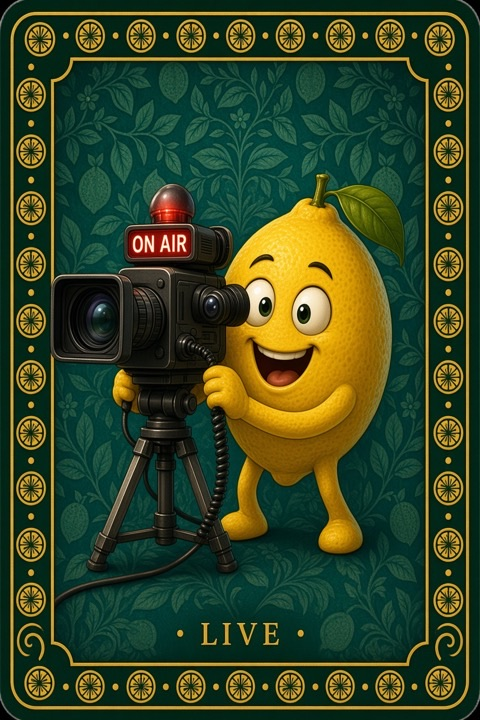
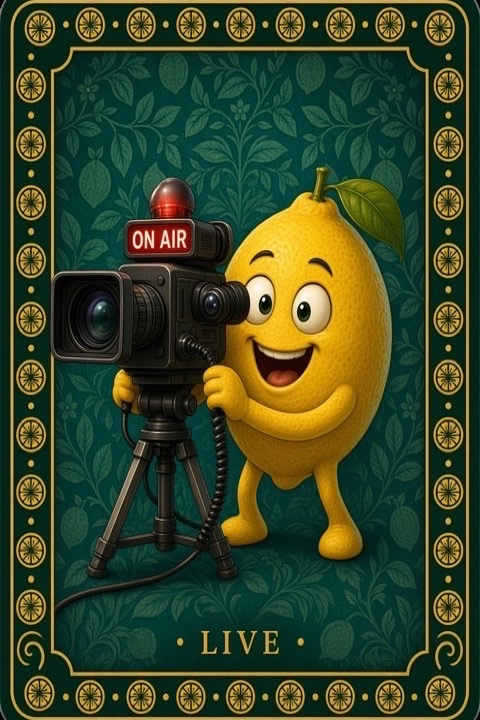
Crop letterboxed card backs and zoom image skins so they fill the card.

diff --git a/canvases/card-game.canvas.tsx b/canvases/card-game.canvas.tsx
@@ -1061,43 +1061,21 @@ function useCardBack(): CardBackId {
 function isCardBack(id: unknown): id is CardBackId {
   return id === "classic" || id === "shades" || id === "sweaty" || id === "camera" || id === "dealer";
 }
+/** Image backs are 2:3; in-game cards are a bit wider (~56×78). Zoom past 100% so art bleeds past the card edge. */
+function imageCardBackFill(src: string, fallback: string): CSSProperties {
+  return {
+    backgroundColor: fallback,
+    backgroundImage: `url(${src})`,
+    backgroundSize: "112% 112%",
+    backgroundPosition: "center",
+    backgroundRepeat: "no-repeat",
+  };
+}
 function cardBackFill(id: CardBackId): CSSProperties {
-  if (id === "shades") {
-    return {
-      backgroundColor: "#145230",
-      backgroundImage: `url(${SHADES_BACK_SRC})`,
-      backgroundSize: "cover",
-      backgroundPosition: "center",
-      backgroundRepeat: "no-repeat",
-    };
-  }
-  if (id === "sweaty") {
-    return {
-      backgroundColor: "#0f3d38",
-      backgroundImage: `url(${SWEATY_BACK_SRC})`,
-      backgroundSize: "cover",
-      backgroundPosition: "center",
-      backgroundRepeat: "no-repeat",
-    };
-  }
-  if (id === "camera") {
-    return {
-      backgroundColor: "#0d2f2a",
-      backgroundImage: `url(${CAMERA_BACK_SRC})`,
-      backgroundSize: "cover",
-      backgroundPosition: "center",
-      backgroundRepeat: "no-repeat",
-    };
-  }
-  if (id === "dealer") {
-    return {
-      backgroundColor: "#12352f",
-      backgroundImage: `url(${DEALER_BACK_SRC})`,
-      backgroundSize: "cover",
-      backgroundPosition: "center",
-      backgroundRepeat: "no-repeat",
-    };
-  }
+  if (id === "shades") return imageCardBackFill(SHADES_BACK_SRC, "#145230");
+  if (id === "sweaty") return imageCardBackFill(SWEATY_BACK_SRC, "#0f3d38");
+  if (id === "camera") return imageCardBackFill(CAMERA_BACK_SRC, "#0d2f2a");
+  if (id === "dealer") return imageCardBackFill(DEALER_BACK_SRC, "#12352f");
   return {
     background: CARD_BACK_BG,
     backgroundImage: CARD_BACK_PATTERN,

diff --git a/docs/index.html b/docs/index.html
@@ -1166,43 +1166,21 @@ function useCardBack(): CardBackId {
 function isCardBack(id: unknown): id is CardBackId {
   return id === "classic" || id === "shades" || id === "sweaty" || id === "camera" || id === "dealer";
 }
+/** Image backs are 2:3; in-game cards are a bit wider (~56×78). Zoom past 100% so art bleeds past the card edge. */
+function imageCardBackFill(src: string, fallback: string): CSSProperties {
+  return {
+    backgroundColor: fallback,
+    backgroundImage: `url(${src})`,
+    backgroundSize: "112% 112%",
+    backgroundPosition: "center",
+    backgroundRepeat: "no-repeat",
+  };
+}
 function cardBackFill(id: CardBackId): CSSProperties {
-  if (id === "shades") {
-    return {
-      backgroundColor: "#145230",
-      backgroundImage: `url(${SHADES_BACK_SRC})`,
-      backgroundSize: "cover",
-      backgroundPosition: "center",
-      backgroundRepeat: "no-repeat",
-    };
-  }
-  if (id === "sweaty") {
-    return {
-      backgroundColor: "#0f3d38",
-      backgroundImage: `url(${SWEATY_BACK_SRC})`,
-      backgroundSize: "cover",
-      backgroundPosition: "center",
-      backgroundRepeat: "no-repeat",
-    };
-  }
-  if (id === "camera") {
-    return {
-      backgroundColor: "#0d2f2a",
-      backgroundImage: `url(${CAMERA_BACK_SRC})`,
-      backgroundSize: "cover",
-      backgroundPosition: "center",
-      backgroundRepeat: "no-repeat",
-    };
-  }
-  if (id === "dealer") {
-    return {
-      backgroundColor: "#12352f",
-      backgroundImage: `url(${DEALER_BACK_SRC})`,
-      backgroundSize: "cover",
-      backgroundPosition: "center",
-      backgroundRepeat: "no-repeat",
-    };
-  }
+  if (id === "shades") return imageCardBackFill(SHADES_BACK_SRC, "#145230");
+  if (id === "sweaty") return imageCardBackFill(SWEATY_BACK_SRC, "#0f3d38");
+  if (id === "camera") return imageCardBackFill(CAMERA_BACK_SRC, "#0d2f2a");
+  if (id === "dealer") return imageCardBackFill(DEALER_BACK_SRC, "#12352f");
   return {
     background: CARD_BACK_BG,
     backgroundImage: CARD_BACK_PATTERN,
